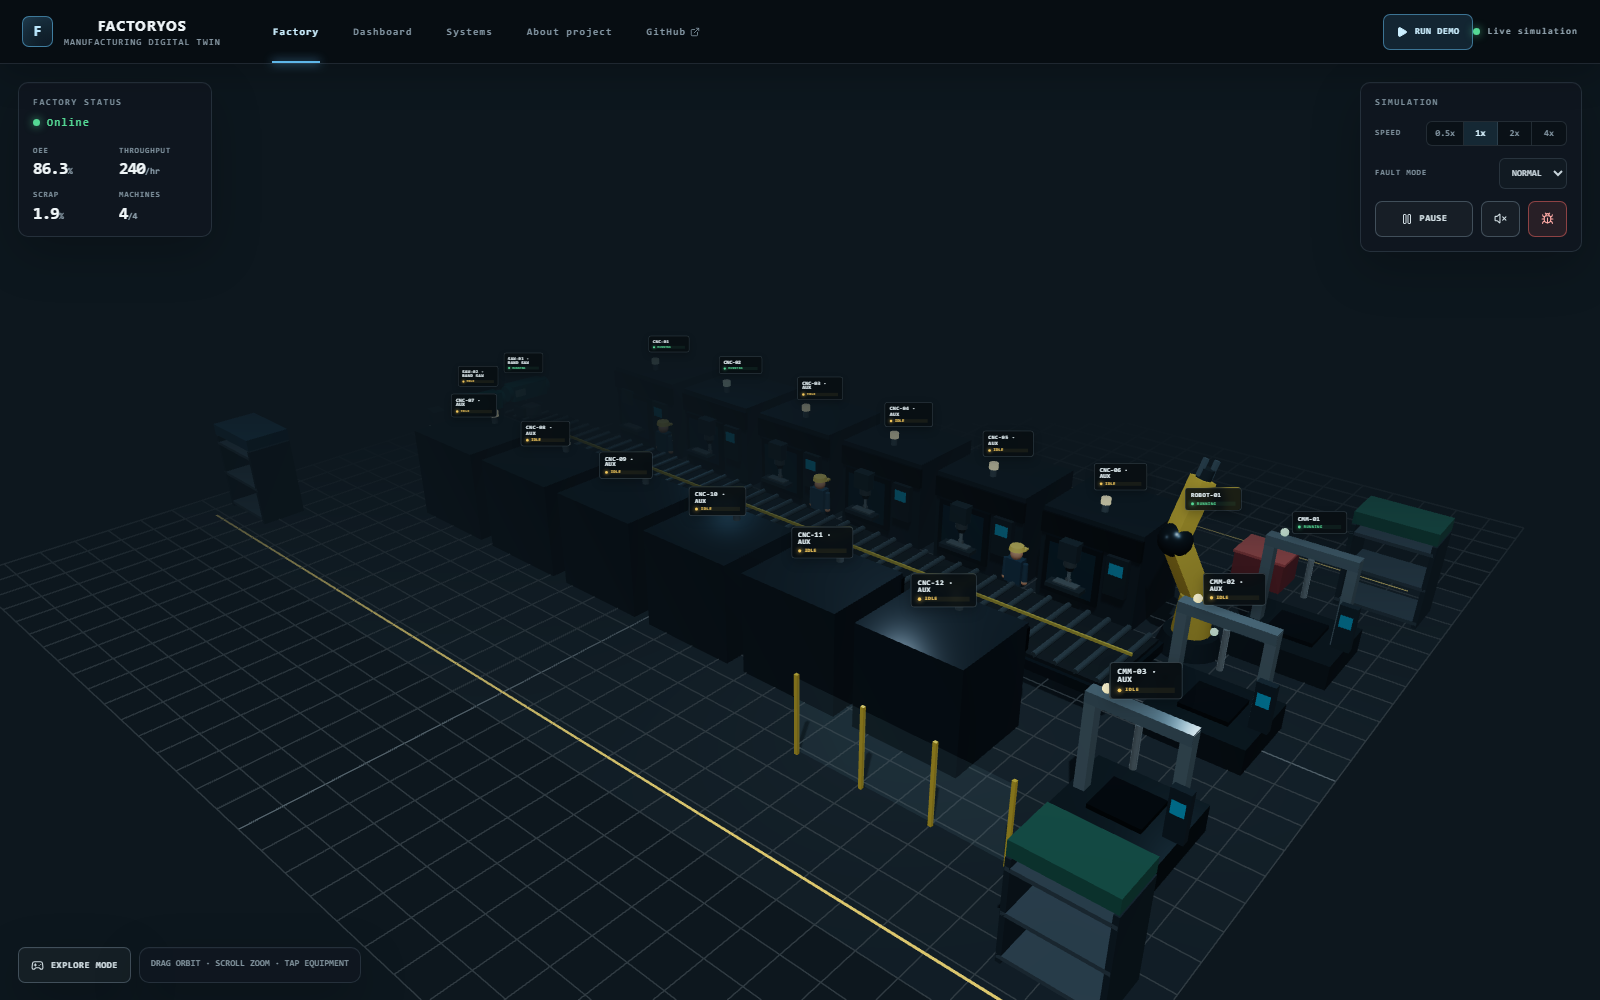
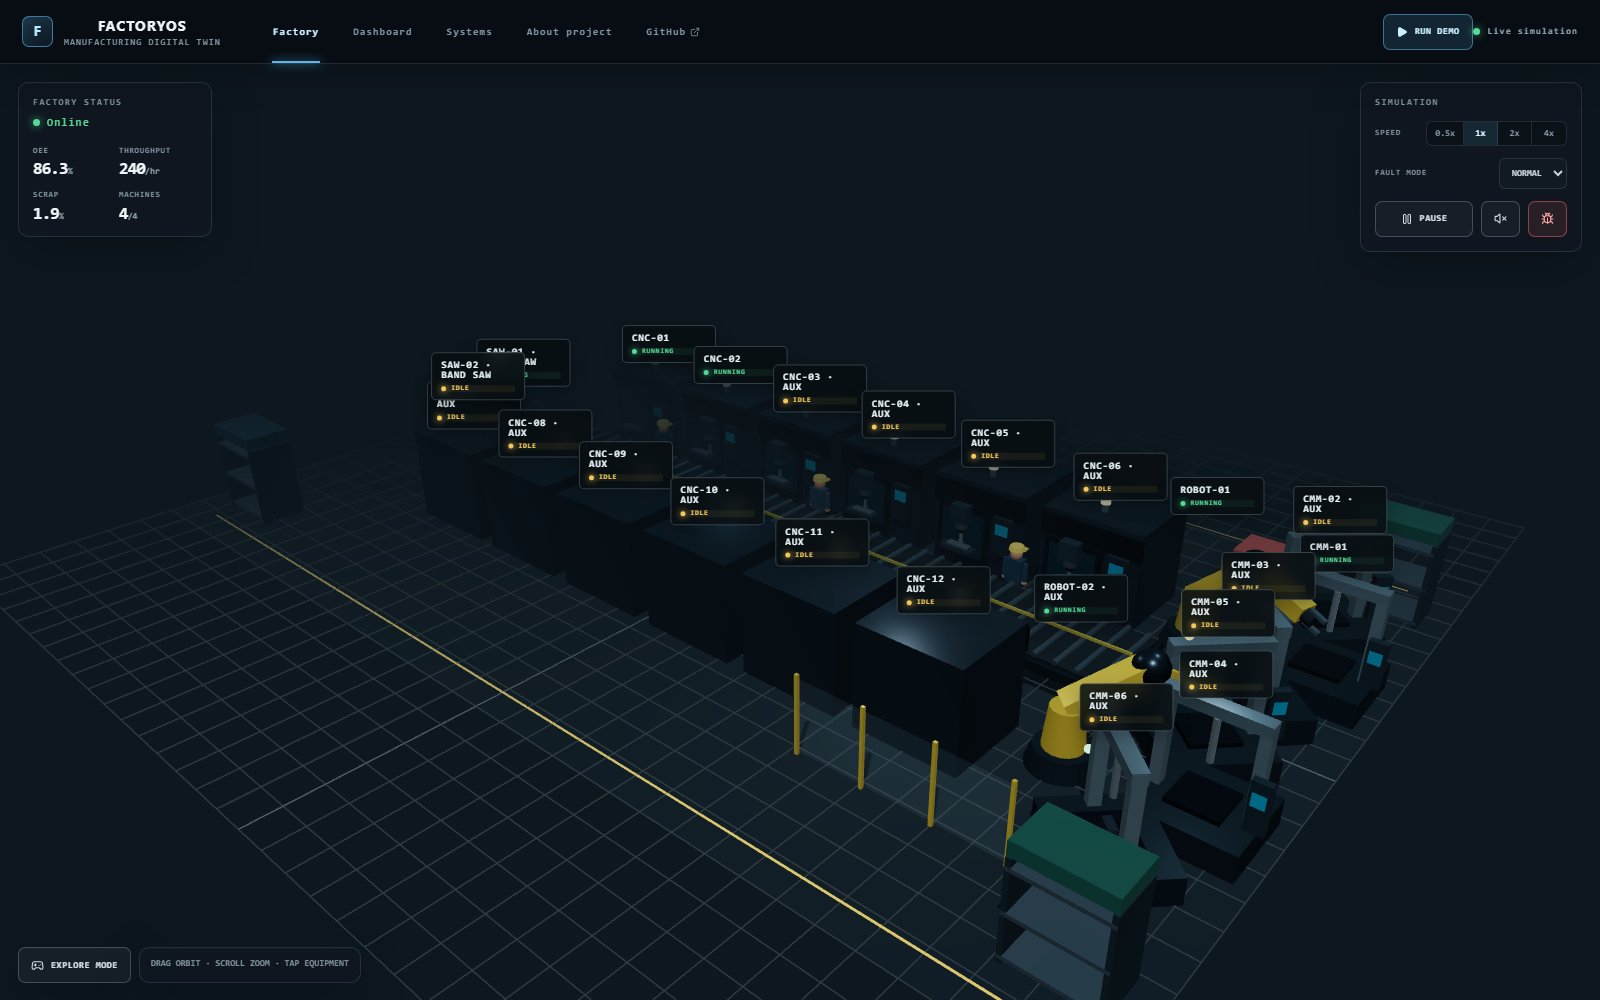
feat: add dual three-CMM robot cells

diff --git a/components/factory/RobotArm.tsx b/components/factory/RobotArm.tsx
@@ -2,48 +2,61 @@
 
 import { useRef } from "react";
 import { useFrame, type ThreeEvent } from "@react-three/fiber";
-import type { Group } from "three";
+import type { Group, Mesh } from "three";
 import { MachineLabel } from "@/components/factory/MachineLabel";
+import type { RobotLayout } from "@/lib/factory/layout";
+import { liveTransferRobotPose, restRobotPose, serviceRobotPose } from "@/lib/simulation/robotKinematics";
 import { useFactoryStore } from "@/store/useFactoryStore";
 import type { MachineStatus } from "@/types/factory";
 
 const colors: Record<MachineStatus,string> = { RUNNING:"#42dc8b",IDLE:"#f0c555",FAULT:"#ff514b",MAINTENANCE:"#4baee7" };
 
-export function RobotArm() {
+export function RobotArm({ label, position, instrumented, phaseOffsetSeconds }: RobotLayout) {
   const machine = useFactoryStore((state) => state.machines["ROBOT-01"]);
-  const selected = useFactoryStore((state) => state.selectedMachineId === "ROBOT-01");
+  const paused = useFactoryStore((state) => state.paused);
+  const selected = useFactoryStore((state) => instrumented && state.selectedMachineId === "ROBOT-01");
   const select = useFactoryStore((state) => state.selectMachine);
   const base = useRef<Group>(null); const shoulder = useRef<Group>(null); const elbow = useRef<Group>(null);
+  const leftFinger = useRef<Mesh>(null); const rightFinger = useRef<Mesh>(null);
+  const status: MachineStatus = instrumented ? machine.status : paused ? "IDLE" : "RUNNING";
   useFrame((_, delta) => {
-    const t = machine.progress / 100;
-    const transfer = t * t * (3 - 2 * t);
-    const lift = Math.sin(t * Math.PI);
+    const state = useFactoryStore.getState();
+    const activeTransfer = instrumented && machine.currentPartId !== null;
+    const shouldService = instrumented ? machine.status === "RUNNING" : !state.paused;
+    const pose = activeTransfer
+      ? liveTransferRobotPose(machine.progress / 100)
+      : shouldService
+        ? serviceRobotPose(state.simulationNow / 1000, phaseOffsetSeconds)
+        : restRobotPose();
     const damping = Math.min(1, delta * 7);
-    if (base.current) base.current.rotation.y += (-2.12 + transfer * 2.72 - base.current.rotation.y) * damping;
-    if (shoulder.current) shoulder.current.rotation.z += (-.48 + lift * .42 - shoulder.current.rotation.z) * damping;
-    if (elbow.current) elbow.current.rotation.z += (.8 - lift * .28 - elbow.current.rotation.z) * damping;
+    if (base.current) base.current.rotation.y += (pose.baseRotation - base.current.rotation.y) * damping;
+    if (shoulder.current) shoulder.current.rotation.z += (pose.shoulderRotation - shoulder.current.rotation.z) * damping;
+    if (elbow.current) elbow.current.rotation.z += (pose.elbowRotation - elbow.current.rotation.z) * damping;
+    const fingerOffset = pose.gripperClosed ? 0.1 : 0.2;
+    if (leftFinger.current) leftFinger.current.position.x += (-fingerOffset - leftFinger.current.position.x) * damping;
+    if (rightFinger.current) rightFinger.current.position.x += (fingerOffset - rightFinger.current.position.x) * damping;
   });
-  const click = (event: ThreeEvent<MouseEvent>) => { event.stopPropagation(); select("ROBOT-01"); };
+  const click = instrumented ? (event: ThreeEvent<MouseEvent>) => { event.stopPropagation(); select("ROBOT-01"); } : undefined;
   return (
-    <group position={[12,0,-3.2]} onClick={click} userData={{ machineId:"ROBOT-01" }}>
+    <group position={position} onClick={click} userData={instrumented ? { machineId:"ROBOT-01" } : { auxiliaryEquipment:true, equipmentKind:"robot" }}>
       <mesh position={[0,.25,0]} castShadow><cylinderGeometry args={[.72,.88,.5,20]} /><meshStandardMaterial color="#313d44" metalness={.65} roughness={.34} /></mesh>
       <group ref={base} position={[0,.48,0]}>
         <mesh position={[0,.55,0]} castShadow><cylinderGeometry args={[.42,.52,1.1,16]} /><meshStandardMaterial color="#d2a934" metalness={.45} roughness={.36} /></mesh>
-        <group ref={shoulder} position={[0,1.08,0]} rotation={[0,0,-.3]}>
+        <group ref={shoulder} position={[0,1.08,0]} rotation={[0,0,-1.08]}>
           <mesh position={[0,1,0]} castShadow><boxGeometry args={[.56,2.15,.65]} /><meshStandardMaterial color="#e0b63c" metalness={.4} roughness={.32} /></mesh>
           <mesh position={[0,2.02,0]}><sphereGeometry args={[.45,16,12]} /><meshStandardMaterial color="#2e3940" metalness={.72} roughness={.28} /></mesh>
-          <group ref={elbow} position={[0,2.02,0]} rotation={[0,0,.65]}>
+          <group ref={elbow} position={[0,2.02,0]} rotation={[0,0,-.92]}>
             <mesh position={[0,.82,0]} castShadow><boxGeometry args={[.45,1.75,.52]} /><meshStandardMaterial color="#d9ae37" metalness={.4} roughness={.33} /></mesh>
             <mesh position={[0,1.72,0]}><cylinderGeometry args={[.2,.2,.5,12]} /><meshStandardMaterial color="#353f44" metalness={.75} /></mesh>
-            <mesh position={[-.18,1.98,0]}><boxGeometry args={[.1,.48,.12]} /><meshStandardMaterial color="#5b6970" metalness={.7} /></mesh>
-            <mesh position={[.18,1.98,0]}><boxGeometry args={[.1,.48,.12]} /><meshStandardMaterial color="#5b6970" metalness={.7} /></mesh>
+            <mesh ref={leftFinger} position={[-.2,1.98,0]}><boxGeometry args={[.1,.48,.12]} /><meshStandardMaterial color="#5b6970" metalness={.7} /></mesh>
+            <mesh ref={rightFinger} position={[.2,1.98,0]}><boxGeometry args={[.1,.48,.12]} /><meshStandardMaterial color="#5b6970" metalness={.7} /></mesh>
           </group>
         </group>
       </group>
       <mesh position={[0,.25,0]} visible={selected}><cylinderGeometry args={[.96,.96,.62,24]} /><meshBasicMaterial color="#73caef" wireframe transparent opacity={.8} depthTest={false} /></mesh>
       <mesh position={[0,.25,0]} visible={false}><cylinderGeometry args={[1.3,1.3,1,16]} /><meshBasicMaterial /></mesh>
-      <mesh position={[.62,.7,0]}><sphereGeometry args={[.11,10,8]} /><meshStandardMaterial color={colors[machine.status]} emissive={colors[machine.status]} emissiveIntensity={2.5} /></mesh>
-      <MachineLabel id="ROBOT-01" status={machine.status} position={[0,4.35,0]} />
+      <mesh position={[.62,.7,0]}><sphereGeometry args={[.11,10,8]} /><meshStandardMaterial color={colors[status]} emissive={colors[status]} emissiveIntensity={2.5} /></mesh>
+      <MachineLabel id={instrumented ? label : `${label} · AUX`} status={status} position={[0,4.35,0]} />
     </group>
   );
 }

diff --git a/components/ui/AboutProject.tsx b/components/ui/AboutProject.tsx
@@ -18,7 +18,7 @@ export function AboutProject() {
     <section className="content-view" aria-labelledby="about-title">
       <header className="content-header"><div><p className="eyebrow">Engineering portfolio project</p><h1 className="section-heading" id="about-title">FactoryOS</h1><p className="section-subtitle">An interactive manufacturing digital twin built to explore how equipment state, production flow, machine faults, and quality metrics influence factory performance.</p></div><a className="button button-primary" href={GITHUB_URL} target="_blank" rel="noreferrer">View source <ExternalLink size={12} /></a></header>
       <div className="content-grid about-grid">
-        <article className="about-card glass-panel"><p className="eyebrow">The project</p><h2 className="panel-title">A working engineering software prototype</h2><div className="about-copy"><p>The visual factory models two enclosed horizontal band saws, a shared dual-lane central conveyor, two six-machine CNC rows staffed at one operator per two machines, front-conveyor return flow, direct robotic CMM loading, and coordinate inspection. One traceable physical workpiece follows the live instrumented route from SAW-01 to the assigned CNC pickup, through both CNC operations, and onward to inspection without decorative duplicates.</p><p>FactoryOS combines manufacturing systems thinking with modern frontend engineering. Its dashboard does not display decorative random values: OEE and every supporting metric are calculated from the cell&apos;s accumulated runtime, cycle, and inspection data.</p></div><div className="tech-badges">{tech.map((item) => <span className="tech-badge" key={item}>{item}</span>)}</div></article>
+        <article className="about-card glass-panel"><p className="eyebrow">The project</p><h2 className="panel-title">A working engineering software prototype</h2><div className="about-copy"><p>The visual factory models two enclosed horizontal band saws, a shared dual-lane central conveyor, two six-machine CNC rows staffed at one operator per two machines, and two articulated robots serving six CMMs in mirrored three-station inspection cells. One traceable physical workpiece follows the live instrumented route from SAW-01 to the assigned CNC pickup, through both CNC operations, and onward to inspection without decorative duplicates.</p><p>FactoryOS combines manufacturing systems thinking with modern frontend engineering. Its dashboard does not display decorative random values: OEE and every supporting metric are calculated from the cell&apos;s accumulated runtime, cycle, and inspection data.</p></div><div className="tech-badges">{tech.map((item) => <span className="tech-badge" key={item}>{item}</span>)}</div></article>
         <article className="about-card glass-panel"><p className="eyebrow">Demonstrated capabilities</p><div className="capability-list">{capabilities.map(({icon:Icon,label}) => <div className="capability" key={label}><Icon size={15} />{label}</div>)}</div></article>
       </div>
     </section>

diff --git a/lib/factory/layout.ts b/lib/factory/layout.ts
@@ -41,6 +41,22 @@ export interface MaintenancePlacement {
   rotationY: number;
 }
 
+export interface RobotLayout {
+  label: "ROBOT-01" | "ROBOT-02";
+  position: FactoryVector;
+  instrumented: boolean;
+  phaseOffsetSeconds: number;
+}
+
+export interface CmmLayout {
+  label: string;
+  position: FactoryVector;
+  rotationY: number;
+  instrumented: boolean;
+  robotLabel: RobotLayout["label"];
+  serviceAngle: number;
+}
+
 const CNC_X_POSITIONS = [-9, -5.4, -1.8, 1.8, 5.4, 9];
 
 function createMachines(
@@ -112,15 +128,37 @@ export const OPERATOR_CELLS: OperatorCellLayout[] = CNC_LINES.flatMap((line, lin
   })),
 );
 
-export const CMM_STATIONS: { label: string; position: FactoryVector; instrumented: boolean }[] = [
-  { label: "CMM-01", position: [14.2, 0, -4.7], instrumented: true },
-  { label: "CMM-02", position: [14, 0, 0], instrumented: false },
-  { label: "CMM-03", position: [14.2, 0, 4.7], instrumented: false },
+export const ROBOT_STATIONS: RobotLayout[] = [
+  { label: "ROBOT-01", position: [12, 0, -3.45], instrumented: true, phaseOffsetSeconds: 0 },
+  { label: "ROBOT-02", position: [12, 0, 3.45], instrumented: false, phaseOffsetSeconds: 6 },
+];
+
+const CMM_REACH = 3.3;
+const CMM_SERVICE_ANGLES = [0, -Math.PI / 4, Math.PI / 4];
+
+function createCmmFan(robot: RobotLayout, firstNumber: number): CmmLayout[] {
+  return CMM_SERVICE_ANGLES.map((serviceAngle, index) => ({
+    label: `CMM-${String(firstNumber + index).padStart(2, "0")}`,
+    position: [
+      robot.position[0] + Math.cos(serviceAngle) * CMM_REACH,
+      0,
+      robot.position[2] + Math.sin(serviceAngle) * CMM_REACH,
+    ],
+    rotationY: -serviceAngle,
+    instrumented: robot.instrumented && index === 0,
+    robotLabel: robot.label,
+    serviceAngle,
+  }));
+}
+
+export const CMM_STATIONS: CmmLayout[] = [
+  ...createCmmFan(ROBOT_STATIONS[0], 1),
+  ...createCmmFan(ROBOT_STATIONS[1], 4),
 ];
 
 export const MAINTENANCE_PLACEMENTS: Record<MachineId, MaintenancePlacement> = {
   "CNC-01": { position: [-8.1, 0, -2.38], rotationY: Math.PI },
   "CNC-02": { position: [-4.5, 0, -2.38], rotationY: Math.PI },
-  "ROBOT-01": { position: [13.05, 0, -2.25], rotationY: -2.3 },
-  "CMM-01": { position: [13.1, 0, -5.95], rotationY: 0 },
+  "ROBOT-01": { position: [10.95, 0, -4.55], rotationY: -0.8 },
+  "CMM-01": { position: [14.35, 0, -4.7], rotationY: 0 },
 };

diff --git a/components/factory/InspectionStation.tsx b/components/factory/InspectionStation.tsx
@@ -11,10 +11,11 @@ const colors: Record<MachineStatus,string> = { RUNNING:"#42dc8b",IDLE:"#f0c555",
 
 interface InspectionStationProps {
   position?: [number, number, number];
+  rotationY?: number;
   auxiliaryLabel?: string;
 }
 
-export function InspectionStation({ position = [14.2,0,-4.7], auxiliaryLabel }: InspectionStationProps) {
+export function InspectionStation({ position = [15.3,0,-3.45], rotationY = 0, auxiliaryLabel }: InspectionStationProps) {
   const machine = useFactoryStore((state) => state.machines["CMM-01"]);
   const selected = useFactoryStore((state) => !auxiliaryLabel && state.selectedMachineId === "CMM-01");
   const select = useFactoryStore((state) => state.selectMachine);
@@ -23,7 +24,7 @@ export function InspectionStation({ position = [14.2,0,-4.7], auxiliaryLabel }: 
   useFrame(() => { if (probe.current && !auxiliaryLabel) probe.current.position.y = 2.25 - Math.sin(machine.progress/100*Math.PI)*.65; });
   const click = (event: ThreeEvent<MouseEvent>) => { event.stopPropagation(); select("CMM-01"); };
   return (
-    <group position={position} onClick={auxiliaryLabel ? undefined : click} userData={auxiliaryLabel ? { auxiliaryEquipment:true } : { machineId:"CMM-01" }}>
+    <group position={position} rotation={[0,rotationY,0]} onClick={auxiliaryLabel ? undefined : click} userData={auxiliaryLabel ? { auxiliaryEquipment:true } : { machineId:"CMM-01" }}>
       <mesh position={[0,.35,0]} castShadow><boxGeometry args={[2.6,.7,2.4]} /><meshStandardMaterial color="#333f45" metalness={.64} roughness={.34} /></mesh>
       {[-1.05,1.05].map((x) => <mesh key={x} position={[x,1.75,0]} castShadow><boxGeometry args={[.26,2.8,.3]} /><meshStandardMaterial color="#91a1a8" metalness={.72} roughness={.28} /></mesh>)}
       <mesh position={[0,3.04,0]} castShadow><boxGeometry args={[2.35,.28,.36]} /><meshStandardMaterial color="#899aa2" metalness={.72} roughness={.28} /></mesh>

diff --git a/lib/simulation/robotKinematics.ts b/lib/simulation/robotKinematics.ts
@@ -1,0 +1,54 @@
+export interface RobotPose {
+  baseRotation: number;
+  shoulderRotation: number;
+  elbowRotation: number;
+  gripperClosed: boolean;
+}
+
+const LOW_SHOULDER = -1.08;
+const LOW_ELBOW = -0.92;
+const SERVICE_CYCLE_SECONDS = 16;
+const SERVICE_BASE_ROTATIONS = [Math.PI / 4, 0, -Math.PI / 4, 0, Math.PI / 4];
+
+const clamp01 = (value: number) => Math.min(1, Math.max(0, value));
+const smoothstep = (value: number) => {
+  const t = clamp01(value);
+  return t * t * (3 - 2 * t);
+};
+const lerp = (from: number, to: number, progress: number) => from + (to - from) * progress;
+
+export function restRobotPose(): RobotPose {
+  return {
+    baseRotation: 0,
+    shoulderRotation: LOW_SHOULDER,
+    elbowRotation: LOW_ELBOW,
+    gripperClosed: false,
+  };
+}
+
+export function liveTransferRobotPose(progress: number): RobotPose {
+  const t = clamp01(progress);
+  const transfer = smoothstep(t);
+  const lift = Math.sin(t * Math.PI);
+  return {
+    baseRotation: lerp(-2.08, 0, transfer),
+    shoulderRotation: LOW_SHOULDER + lift * 0.38,
+    elbowRotation: LOW_ELBOW - lift * 0.22,
+    gripperClosed: t >= 0.05 && t < 0.96,
+  };
+}
+
+export function serviceRobotPose(elapsedSeconds: number, phaseOffsetSeconds = 0): RobotPose {
+  const wrappedSeconds = ((elapsedSeconds + phaseOffsetSeconds) % SERVICE_CYCLE_SECONDS + SERVICE_CYCLE_SECONDS) % SERVICE_CYCLE_SECONDS;
+  const scaled = wrappedSeconds / SERVICE_CYCLE_SECONDS * 4;
+  const segment = Math.min(3, Math.floor(scaled));
+  const local = scaled - segment;
+  const travel = smoothstep((local - 0.36) / 0.64);
+  const lift = Math.sin(travel * Math.PI);
+  return {
+    baseRotation: lerp(SERVICE_BASE_ROTATIONS[segment], SERVICE_BASE_ROTATIONS[segment + 1], travel),
+    shoulderRotation: LOW_SHOULDER + lift * 0.3,
+    elbowRotation: LOW_ELBOW - lift * 0.18,
+    gripperClosed: local < 0.32,
+  };
+}

diff --git a/components/factory/FactoryScene.tsx b/components/factory/FactoryScene.tsx
@@ -17,6 +17,7 @@ import {
   CNC_LINES,
   FRONT_INFEED_CONVEYORS,
   OPERATOR_CELLS,
+  ROBOT_STATIONS,
   SAW_STATIONS,
 } from "@/lib/factory/layout";
 import { useFactoryStore } from "@/store/useFactoryStore";
@@ -46,11 +47,11 @@ function Cell() {
         {SAW_STATIONS.map((saw) => <SawStation key={saw.label} label={saw.label} position={saw.position} />)}
         {OPERATOR_CELLS.map((cell, index) => <OperatorLoader key={cell.id} cell={cell} colorIndex={index} />)}
         <MaintenanceTechnicians />
-        <RobotArm />
+        {ROBOT_STATIONS.map((robot) => <RobotArm key={robot.label} {...robot} />)}
         {CMM_STATIONS.map((cmm) => cmm.instrumented ? (
-          <InspectionStation key={cmm.label} position={cmm.position} />
+          <InspectionStation key={cmm.label} position={cmm.position} rotationY={cmm.rotationY} />
         ) : (
-          <InspectionStation key={cmm.label} position={cmm.position} auxiliaryLabel={cmm.label} />
+          <InspectionStation key={cmm.label} position={cmm.position} rotationY={cmm.rotationY} auxiliaryLabel={cmm.label} />
         ))}
         {parts.map((part,index) => <Part key={part.id} part={part} stackIndex={index} />)}
       </group>

diff --git a/lib/simulation/robotKinematics.test.ts b/lib/simulation/robotKinematics.test.ts
@@ -1,0 +1,26 @@
+import { describe, expect, it } from "vitest";
+import { liveTransferRobotPose, restRobotPose, serviceRobotPose } from "@/lib/simulation/robotKinematics";
+
+describe("robot arm kinematics", () => {
+  it("rests in a lowered working pose instead of pointing upward", () => {
+    const rest = restRobotPose();
+    expect(rest.shoulderRotation).toBeLessThan(-1);
+    expect(rest.elbowRotation).toBeLessThan(-0.8);
+  });
+
+  it("lifts during transfer and lowers again at the front CMM", () => {
+    const pickup = liveTransferRobotPose(0);
+    const lifted = liveTransferRobotPose(0.5);
+    const placed = liveTransferRobotPose(1);
+    expect(pickup.baseRotation).toBeCloseTo(-2.08);
+    expect(lifted.shoulderRotation).toBeGreaterThan(pickup.shoulderRotation);
+    expect(placed.baseRotation).toBeCloseTo(0);
+    expect(placed.shoulderRotation).toBeCloseTo(pickup.shoulderRotation);
+  });
+
+  it("services the left, front, and right CMM angles", () => {
+    expect(serviceRobotPose(0).baseRotation).toBeCloseTo(Math.PI / 4);
+    expect(serviceRobotPose(4).baseRotation).toBeCloseTo(0);
+    expect(serviceRobotPose(8).baseRotation).toBeCloseTo(-Math.PI / 4);
+  });
+});

diff --git a/lib/factory/layout.test.ts b/lib/factory/layout.test.ts
@@ -5,6 +5,7 @@ import {
   FRONT_INFEED_CONVEYORS,
   MAINTENANCE_PLACEMENTS,
   OPERATOR_CELLS,
+  ROBOT_STATIONS,
   SAW_STATIONS,
 } from "@/lib/factory/layout";
 
@@ -39,6 +40,25 @@ describe("factory line layout", () => {
       expect(Math.abs(machineFrontZ - conveyorEdgeFacingMachine)).toBeGreaterThan(0.7);
     }
     expect(CMM_STATIONS.find((cmm) => cmm.instrumented)?.position[0]).toBeGreaterThan(12);
+  });
+
+  it("gives each of two robots one front and two 45-degree CMM stations", () => {
+    expect(ROBOT_STATIONS).toHaveLength(2);
+    expect(CMM_STATIONS).toHaveLength(6);
+
+    for (const robot of ROBOT_STATIONS) {
+      const cmmFan = CMM_STATIONS.filter((cmm) => cmm.robotLabel === robot.label);
+      expect(cmmFan).toHaveLength(3);
+      expect(cmmFan.map((cmm) => cmm.serviceAngle).sort((a, b) => a - b)).toEqual([
+        -Math.PI / 4,
+        0,
+        Math.PI / 4,
+      ]);
+      for (const cmm of cmmFan) {
+        const reach = Math.hypot(cmm.position[0] - robot.position[0], cmm.position[2] - robot.position[2]);
+        expect(reach).toBeCloseTo(3.3);
+      }
+    }
   });
 
   it("provides service positions at every instrumented machine", () => {

diff --git a/lib/simulation/simulationEngine.ts b/lib/simulation/simulationEngine.ts
@@ -9,9 +9,9 @@ const POSITIONS: Record<StationId, FactoryPosition> = {
   "CNC-01": [-9, 1.2, -4.2],
   "CNC-02": [-5.4, 1.2, -4.2],
   CONVEYOR: [0, 1.3, -0.9],
-  "ROBOT-01": [12, 1.2, -3.2],
-  "CMM-01": [14.2, 1.1, -4.7],
-  FINISHED: [14.2, 1.1, -4.7],
+  "ROBOT-01": [12, 1.2, -3.45],
+  "CMM-01": [15.3, 1.1, -3.45],
+  FINISHED: [15.3, 1.1, -3.45],
   REJECT: [12, 0.75, -8.2],
 };
 

diff --git a/README.md b/README.md
@@ -14,11 +14,12 @@ FactoryOS is a portfolio-grade manufacturing cell simulator that connects an int
 
 ## Features
 
-- Procedural low-poly factory with two six-machine CNC lines, two enclosed horizontal band saws cutting thick rectangular stock, one combined dual-lane central conveyor, a transfer robot, three CMM stations, material racks, and reject handling
+- Procedural low-poly factory with two six-machine CNC lines, two enclosed horizontal band saws cutting thick rectangular stock, one combined dual-lane central conveyor, two articulated transfer robots, six CMM stations, material racks, and reject handling
 - Six modeled operators cover one adjacent CNC pair each; only the operator assigned to the live traceable workpiece moves, while idle operators no longer create decorative blanks
 - Fault-driven repair technicians appear with tools at affected CNC and robotic equipment, then leave when the diagnosed repair is completed
 - Two instrumented CNCs with modeled vertical spindle cartridges, downward cutters, and rectangular/circular X–Z machining paths; auxiliary equipment is clearly labeled and excluded from KPIs
 - Z-axis conveyor rollers with visible witness marks and playback-speed-synchronized motion
+- Two lowered-pose robot arms with damped shoulder, elbow, base, and gripper motion; each services a three-CMM fan at front and ±45-degree positions
 - One traceable physical workpiece at a time, with no looping conveyor stock or operator-owned duplicate geometry
 - Live spindle, robot, and inspection telemetry with smooth signal changes
 - Machine selection, start/stop controls, status lights, and floating labels
@@ -67,7 +68,7 @@ The simulation uses a single bounded clock. It supports pause and accelerated ti
 
 ## Production Flow
 
-The full visual cell begins with two horizontal band saws placed together at the upstream end of one combined, dual-lane central conveyor. SAW-01 cuts the single live billet while SAW-02 remains available as modeled standby equipment. The cut billet appears only when released from the saw, travels only as far as CNC-01&apos;s pickup point, and stops for its assigned operator. That same physical workpiece is loaded and unloaded from the front, returns to the conveyor after CNC-02, travels right to ROBOT-01, and is placed directly onto CMM-01 for final inspection. The remaining modeled stations are labeled auxiliary and do not inflate operational KPIs.
+The full visual cell begins with two horizontal band saws placed together at the upstream end of one combined, dual-lane central conveyor. SAW-01 cuts the single live billet while SAW-02 remains available as modeled standby equipment. The cut billet appears only when released from the saw, travels only as far as CNC-01&apos;s pickup point, and stops for its assigned operator. That same physical workpiece is loaded and unloaded from the front, returns to the conveyor after CNC-02, travels right to ROBOT-01, and is placed directly onto CMM-01 for final inspection. ROBOT-01 and ROBOT-02 each serve three reachable CMMs arranged directly ahead and at 45 degrees to either side; the auxiliary robot and five auxiliary CMMs demonstrate cell scale without inflating operational KPIs.
 
 ```text
 Raw stock → SAW-01 cut/release → Conveyor stop at CNC-01 → Operator load → CNC-01 → CNC-02
